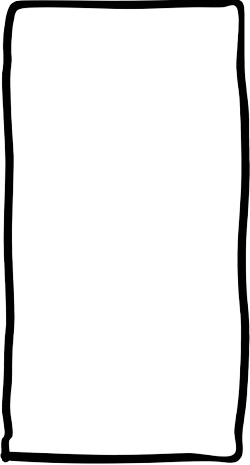
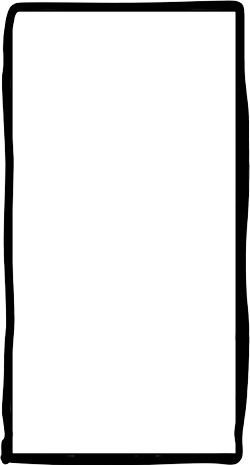
Ajustes visuales de cards

Changed region(s): [[0.0, 0.0, 1.0, 1.0], [0.028, 0.4215, 0.056, 0.5419], [0.028, 0.6022, 0.056, 0.6323]]

diff --git a/frontend/src/index.css b/frontend/src/index.css
@@ -20,7 +20,7 @@ body {
   display: flex;
   align-items: center;
   justify-content: space-between;
-  padding: 26px 40px;
+  padding: 46px 40px 26px 40px;
 }
 
 .header-logo {
@@ -133,7 +133,6 @@ body {
   height: 100%;
 }
 
-
 .card-horizontal {
   grid-column: span 2;
   grid-row: span 1;
@@ -152,6 +151,30 @@ body {
   height: 100%;
   object-fit: fill;
   transition: filter 0.3s ease;
+  z-index: 2;
+}
+
+.card-hero-img {
+  position: absolute;
+  top: 50%;
+  left: 50%;
+  transform: translate(-50%, -50%);
+  width: 95%;
+  height: 95%;
+  object-fit: cover;
+  z-index: 1;
+}
+
+.card-overlay {
+  position: absolute;
+  top: 50%;
+  left: 50%;
+  transform: translate(-50%, -50%);
+  width: 95%;
+  height: 95%;
+  background-color: rgba(0, 0, 0, 0);
+  transition: background-color 0.3s ease;
+  z-index: 3;
 }
 
 .card-content {
@@ -164,14 +187,8 @@ body {
   display: flex;
   flex-direction: column;
   gap: 8px;
-  z-index: 2;
+  z-index: 4;
   overflow: hidden;
-}
-
-.card-name {
-  font-size: 15px;
-  font-weight: bold;
-  color: #111;
 }
 
 .card-hover-content {
@@ -184,18 +201,29 @@ body {
 
 .card-realname {
   font-size: 12px;
-  color: #363636;
+  color: #c3c1c1;
   font-style: italic;
 }
 
 .card-bio {
   font-size: 11px;
-  color: #363636;
+  color: #c3c1c1;
   line-height: 1.4;
   overflow: hidden;
 }
+
+.card-wrapper:hover .card-overlay {
+  background-color: rgba(0, 0, 0, 0.5);
+}
+
 .card-wrapper:hover .card-hover-content {
   opacity: 1;
+}
+
+.card-wrapper:hover .card-name {
+  color: #c3c1c1;
+  font-size: 15px;
+  font-weight: bold;
 }
 
 /* BOTÓN AGREGAR */
@@ -310,7 +338,7 @@ body {
   outline: none;
   font-family: 'Comic Sans MS', cursive;
   font-size: 14px;
-  padding: 20px;
+  padding: 20px 12px;
   color: #222;
 }
 
@@ -352,7 +380,7 @@ body {
   outline: none;
   font-family: 'Comic Sans MS', cursive;
   font-size: 15px;
-  padding: 15px;
+  padding: 10px 14px;
   color: #222;
 }
 
@@ -379,6 +407,7 @@ body {
 }
 
 .form-guardar {
+  margin-left: auto;
   align-self: flex-end;
 }
 

diff --git a/frontend/src/components/SuperheroCard.jsx b/frontend/src/components/SuperheroCard.jsx
@@ -13,10 +13,17 @@ function SuperheroCard({ superhero, orientacion, gridStyle }) {
         alt=""
         className="card-bg"
       />
+      {superhero.images?.[0] && (
+        <img
+          src={superhero.images[0]}
+          alt={superhero.name}
+          className="card-hero-img"
+        />
+      )}
       <div className="card-overlay" />
       <div className="card-content">
-        <h3 className="card-name">{superhero.name}</h3>
         <div className="card-hover-content">
+          <h3 className="card-name">{superhero.name}</h3>
           {superhero.realName && (
             <p className="card-realname">{superhero.realName}</p>
           )}

diff --git a/frontend/src/pages/Agregar.jsx b/frontend/src/pages/Agregar.jsx
@@ -48,7 +48,7 @@ function Agregar() {
 
       {/* HEADER */}
       <header className="header">
-        <img src={logo} alt="Logo" className="header-logo" />
+        <button onClick={() => navigate('/')} className="nav-btn"><img src={logo} alt="Logo" className="header-logo" /></button>
       </header>
 
       {/* NAVEGACIÓN */}
